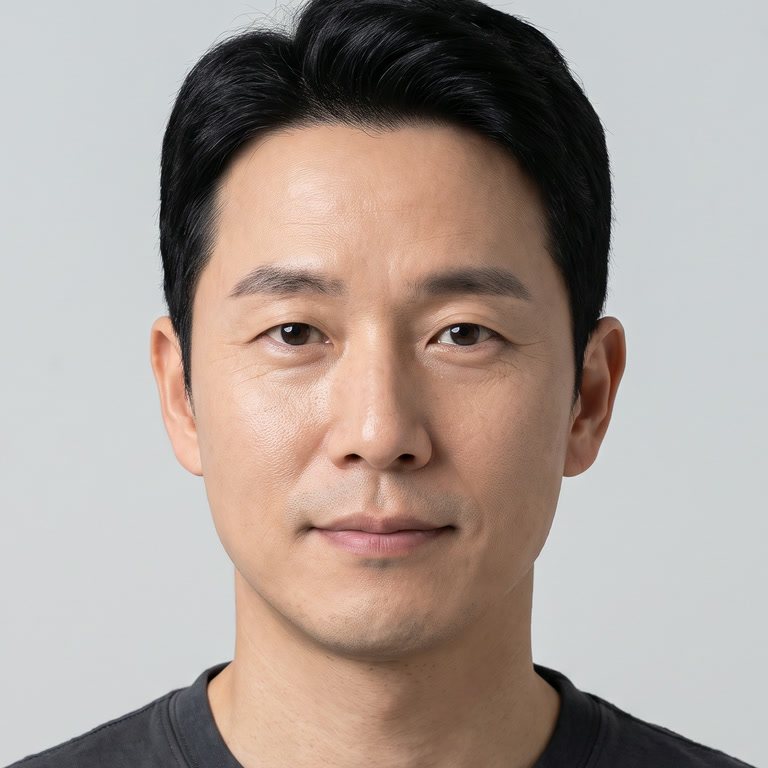
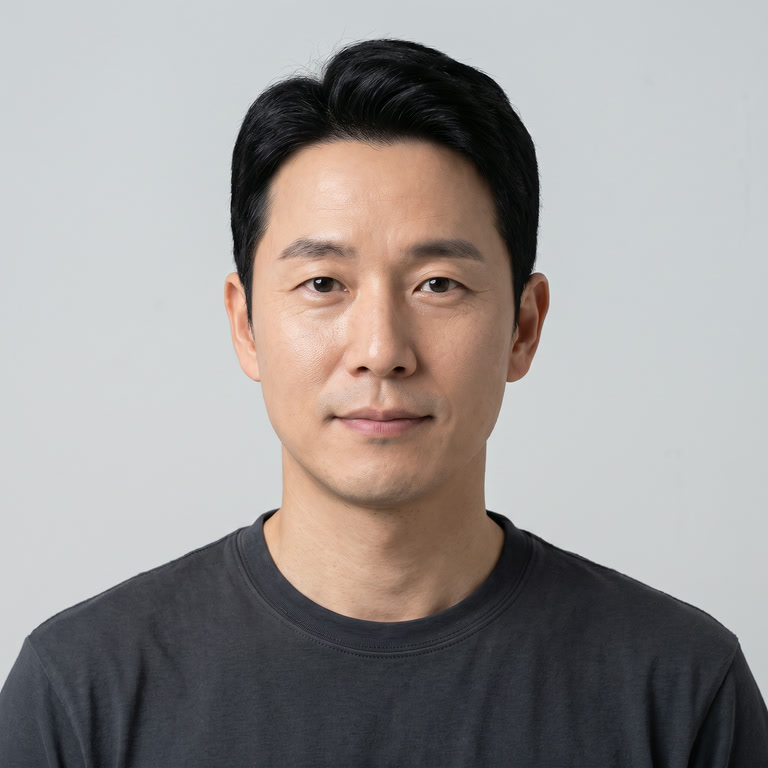
mirror pkgs/avatarcam/cloud from nixos-config a3de33869

diff --git a/server.py b/server.py
@@ -1,22 +1,22 @@
-"""avatarcam swap server: replaces the face in a client's camera frames with a chosen face, using FaceFusion's HyperSwap 1a 256 with the occlusion mask.
+"""avatarcam swap server: replaces the face in a client's camera frames with a chosen face, using FaceFusion's HyperSwap (1a, 1b or 1c, 256) with the occlusion mask.
 
 Runs inside the RunPod pod from the avatarcam-swap image (FaceFusion, onnxruntime-gpu with its CUDA/cuDNN wheels and the models baked in), started by bootstrap.sh. One TCP client at a time; every message in both directions is `type:u8 | len:u32be | payload`.
 
 client -> server
   A  auth token (utf-8), must come first
-  P  optional json options line, then the face image bytes (png/jpeg); answered with R once the face is detected and the swapper is warm. A later P swaps the face mid-stream.
+  P  settings: a json line {gen, model, pixelBoost}, then the face image bytes (png/jpeg), which may be absent when the face is unchanged; answered with R once applied. The first P must carry a face. A later P switches face, model or pixel boost while frames keep flowing: frames already running finish with the old settings, later ones use the new.
   F  seq:u32be | jpeg camera frame
 
 server -> client
-  R  json {gpu, load_s, prepare_s, since_boot_s, workers}
-  F  seq:u32be | flags_us:u32be | jpeg frame, the same size as the camera frame; flags_us is the server's time on the frame in microseconds, with the top bit set when no face was found in it
+  R  json {gen, ms, gpu, load_s, since_boot_s, workers, model, pixelBoost}: the settings `gen` are in effect, `ms` after their P arrived
+  F  seq:u32be | info:u32be | jpeg frame, the same size as the camera frame. info: bit 31 set when no face was found in the frame, bits 24-30 the low bits of the settings gen the frame ran with, bits 0-23 the server's time on the frame in microseconds
   E  error text, then the server closes the connection
 
 Frames run on WORKERS threads at once, which is what holds 30 fps when one frame takes longer than a frame period, and leave in the order they arrived. At most MAX_QUEUE frames wait for a worker; beyond that the oldest waiting frame is dropped, so latency stays bounded rather than growing. A frame where no face is found would show the real face, so the last swapped frame is held for HOLD frames and after that the frame goes out pixelated.
 
 The server writes a heartbeat file on every received frame; bootstrap.sh's watchdog deletes the pod when it goes stale, and this process also deletes the pod itself when no frame has arrived for AVATARCAM_IDLE seconds.
 
-`python server.py --prefetch` downloads the models the server uses, which is how the image bakes them in.
+`python server.py --prefetch` downloads the models the server starts with, which is how the image bakes them in. The other HyperSwap models are fetched in the background once a client is served, so switching to one later only loads it.
 """
 
 import collections
@@ -44,6 +44,7 @@ HOLD = int(os.environ.get("AVATARCAM_HOLD", "15"))
 FF_ARGS = [
     "--processors", "face_swapper",
     "--face-swapper-model", "hyperswap_1a_256",
+    "--face-swapper-pixel-boost", "256x256",
     "--face-mask-types", "box", "occlusion",
     "--face-selector-mode", "one",
     # a webcam in a dim room scores faces lower than FaceFusion's 0.5 default expects, and a missed face is a frozen or pixelated frame
@@ -159,9 +160,13 @@ class Engine:
         self.read_static_images = read_static_images
         self.lock = threading.Lock()
         self.faces = 0
+        # the settings generation frames are tagged with; set once a P's changes are all in place
+        self.gen = 0
         self.set_face_path(WARM_FACE)
         # The threads that swap a client's frames. They live as long as the engine because onnxruntime's CUDA provider sets up per-thread state (stream, cuBLAS and cuDNN handles) on a thread's first run of each model, which costs seconds, so these threads are the ones warmed here.
         self.pool = concurrent.futures.ThreadPoolExecutor(WORKERS, thread_name_prefix="swap")
+        # the one thread that applies settings, warmed the same way, so detecting a new face does not pay that cost either
+        self.control = concurrent.futures.ThreadPoolExecutor(1, thread_name_prefix="control")
         # every model's session is created on its first use; doing that from several threads at once creates some twice, so the first frames go one at a time
         warm = np.full((720, 1280, 3), 200, np.uint8)
         face = cv2.imread(WARM_FACE)
@@ -178,11 +183,15 @@ class Engine:
                 self.process_stream_frame(self.source_frames, warm)
 
             list(self.pool.map(lambda _: run(), range(WORKERS)))
+        self.control.submit(self.process_stream_frame, self.source_frames, warm).result()
         self.load_s = time.time() - t0
 
     def set_face_path(self, path):
+        # pre_process detects the face and computes its embedding, which FaceFusion caches for every later frame
+        previous = self.state.get_item("source_paths")
         self.state.set_item("source_paths", [path])
         if not self.face_swapper.pre_process("stream"):
+            self.state.set_item("source_paths", previous)
             raise ValueError("no face found in the face image")
         self.source_frames = self.read_static_images([path])
 
@@ -197,11 +206,54 @@ class Engine:
             path = f"/tmp/avatarcam-face-{self.faces}.png"
         self.cv2.imwrite(path, img)
         self.set_face_path(path)
-        # the first frame with a new face computes its embedding
-        warm = self.np.full((720, 1280, 3), 200, self.np.uint8)
-        warm[120:600, 400:880] = self.cv2.resize(img, (480, 480))
-        self.process_stream_frame(self.source_frames, warm)
         return time.time() - t0
+
+    def model_url(self, name):
+        return self.face_swapper.create_static_model_set("full")[name]["sources"]["face_swapper"]
+
+    def fetch_model(self, name):
+        """Downloads a swapper model next to the baked ones. FaceFusion's own download takes a process-wide lock that every frame's inference waits on, so a plain download into a temporary name is used instead."""
+        src = self.model_url(name)
+        if os.path.exists(src["path"]):
+            return
+        t0 = time.time()
+        tmp = src["path"] + ".part"
+        with urllib.request.urlopen(urllib.request.Request(src["url"], headers={"user-agent": "avatarcam"}), timeout=60) as r, open(tmp, "wb") as f:
+            while chunk := r.read(1 << 20):
+                f.write(chunk)
+        os.rename(tmp, src["path"])
+        log(f"fetched {name} in {time.time() - t0:.1f}s")
+
+    def load_model(self, name):
+        """Loads a swapper model's session and runs it once on zeros, so the first real frame does not pay for cuDNN's algorithm search."""
+        import numpy as np
+        from facefusion import inference_manager
+
+        self.fetch_model(name)
+        src = self.face_swapper.create_static_model_set("full")[name]["sources"]
+        session = inference_manager.get_inference_pool(self.face_swapper.__name__, [name], src)["face_swapper"]
+        feeds = {i.name: np.zeros([d if isinstance(d, int) else 1 for d in i.shape], np.float32) for i in session.get_inputs()}
+        session.run(None, feeds)
+
+    def apply(self, opts, face):
+        """Applies one P: the face, the pixel boost and the model, whichever it carries."""
+        model = opts.get("model")
+        if model and model != self.state.get_item("face_swapper_model"):
+            self.load_model(model)
+            self.state.set_item("face_swapper_model", model)
+        boost = opts.get("pixelBoost")
+        if boost:
+            self.state.set_item("face_swapper_pixel_boost", boost)
+        if face:
+            self.set_face(face)
+        self.gen = int(opts.get("gen", self.gen + 1))
+
+    def prefetch_models(self):
+        for name in ("hyperswap_1a_256", "hyperswap_1b_256", "hyperswap_1c_256"):
+            try:
+                self.fetch_model(name)
+            except Exception as e:
+                log(f"prefetching {name} failed: {e!r}")
 
     def swap(self, bgr):
         """The swapped frame, or None when no face was found in it."""
@@ -287,6 +339,7 @@ def serve_client(conn, engine_box, engine_ready, token):
                 counters["next_ticket"] += 1
             try:
                 t0 = time.perf_counter()
+                gen = engine.gen
                 bgr = cv2.imdecode(np.frombuffer(jpg, np.uint8), cv2.IMREAD_COLOR)
                 out = engine.swap(bgr) if bgr is not None else None
                 found = out is not None
@@ -303,8 +356,8 @@ def serve_client(conn, engine_box, engine_ready, token):
                 msg = None
                 if out is not None:
                     data = cv2.imencode(".jpg", out, [cv2.IMWRITE_JPEG_QUALITY, JPEG_Q])[1].tobytes()
-                    us = min(int((time.perf_counter() - t0) * 1e6), 0x7FFFFFFF)
-                    msg = pack("F", struct.pack(">II", seq, us | (0 if found else 0x80000000)) + data)
+                    us = min(int((time.perf_counter() - t0) * 1e6), 0xFFFFFF)
+                    msg = pack("F", struct.pack(">II", seq, us | (gen & 0x7F) << 24 | (0 if found else 0x80000000)) + data)
             except Exception as e:
                 traceback.print_exc()
                 fail(f"frame failed: {e}")
@@ -336,36 +389,64 @@ def serve_client(conn, engine_box, engine_ready, token):
                 stop.set()
                 return
 
-    def prepare(face, opts):
+    settings = collections.deque()
+
+    def control():
+        """Applies P messages in order, off the receive loop, so frames keep flowing while a face is detected or a model loads. Several waiting at once are merged into one: the newest face and the newest model and pixel boost."""
         engine_ready.wait()
         engine = engine_box[0]
         if isinstance(engine, Exception):
             fail(f"engine failed to load: {engine}")
             return
-        try:
-            prep = engine.set_face(face)
-        except Exception as e:
-            traceback.print_exc()
-            fail(str(e))
-            return
-        info = {
-            "gpu": gpu_name(),
-            "load_s": round(engine.load_s, 2),
-            "prepare_s": round(prep, 2),
-            "since_boot_s": round(time.time() - float(os.environ.get("AVATARCAM_BOOT_T0", time.time())), 1),
-            "workers": WORKERS,
-        }
-        log("ready", info)
-        if not workers:
-            workers.extend(engine.pool.submit(worker, engine) for _ in range(WORKERS))
-        try:
-            send(pack("R", json.dumps(info).encode()))
-        except OSError:
-            stop.set()
+        first = True
+        while not stop.is_set():
+            with cond:
+                while not settings and not stop.is_set():
+                    cond.wait(0.5)
+                if stop.is_set():
+                    return
+                opts, face, arrived = {}, None, None
+                while settings:
+                    o, f, at = settings.popleft()
+                    opts.update(o)
+                    face = f or face
+                    arrived = arrived or at
+            t0 = time.time()
+            try:
+                engine.control.submit(engine.apply, opts, face).result()
+                error = None
+            except Exception as e:
+                traceback.print_exc()
+                # the first settings must work; a later bad face or model leaves the previous ones in place
+                if first:
+                    fail(str(e))
+                    return
+                error = str(e)
+            info = {
+                "gen": engine.gen,
+                "ms": round((time.time() - arrived) * 1000),
+                "apply_ms": round((time.time() - t0) * 1000),
+                "model": engine.state.get_item("face_swapper_model"),
+                "pixelBoost": engine.state.get_item("face_swapper_pixel_boost"),
+            }
+            if error:
+                info["error"] = error
+            if first:
+                info.update(gpu=gpu_name(), load_s=round(engine.load_s, 2), since_boot_s=round(time.time() - float(os.environ.get("AVATARCAM_BOOT_T0", time.time())), 1), workers=WORKERS)
+                workers.extend(engine.pool.submit(worker, engine) for _ in range(WORKERS))
+                threading.Thread(target=engine.prefetch_models, daemon=True).start()
+                first = False
+            log("settings", info)
+            try:
+                send(pack("R", json.dumps(info).encode()))
+            except OSError:
+                stop.set()
+                return
 
     workers = []
     sender_thread = threading.Thread(target=sender, daemon=True)
     sender_thread.start()
+    threading.Thread(target=control, daemon=True).start()
     try:
         while not stop.is_set():
             t, payload = recv_msg(conn)
@@ -385,8 +466,9 @@ def serve_client(conn, engine_box, engine_ready, token):
                     nl = payload.index(b"\n")
                     opts = json.loads(payload[:nl])
                     img = payload[nl + 1 :]
-                # off the receive loop, so a face swap mid-stream does not stall the frames
-                threading.Thread(target=prepare, args=(img, opts), daemon=True).start()
+                with cond:
+                    settings.append((opts, img or None, time.time()))
+                    cond.notify_all()
     finally:
         stop.set()
         with cond:
@@ -419,7 +501,7 @@ def main():
 
     srv = socket.socket(socket.AF_INET, socket.SOCK_STREAM)
     srv.setsockopt(socket.SOL_SOCKET, socket.SO_REUSEADDR, 1)
-    srv.bind(("0.0.0.0", PORT))
+    srv.bind(("", PORT))
     srv.listen(4)
     log(f"listening on :{PORT}, idle limit {IDLE:.0f}s")
     while True:
